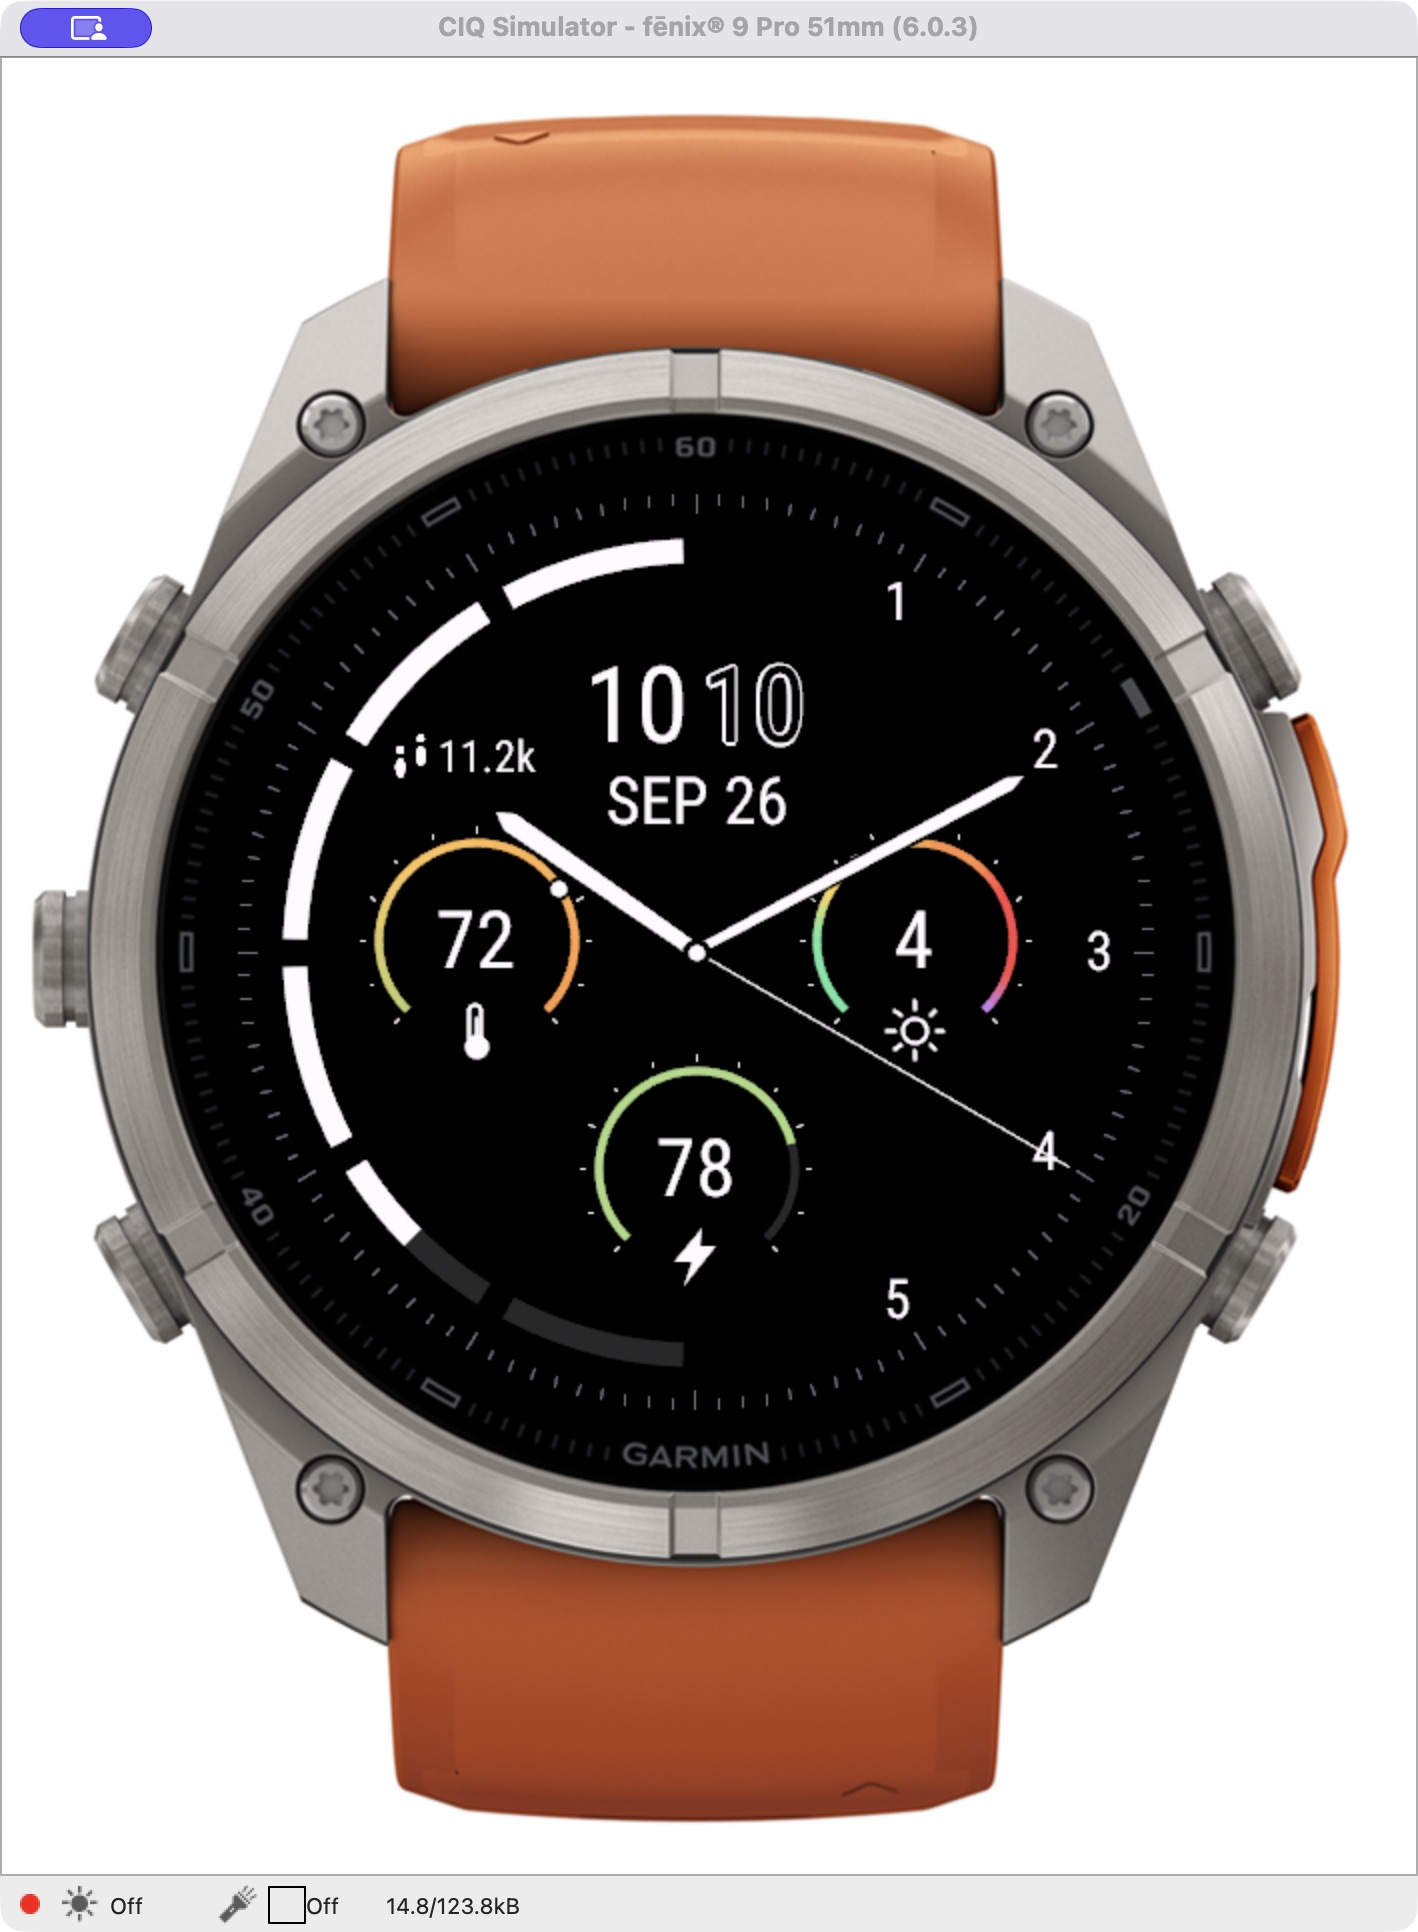
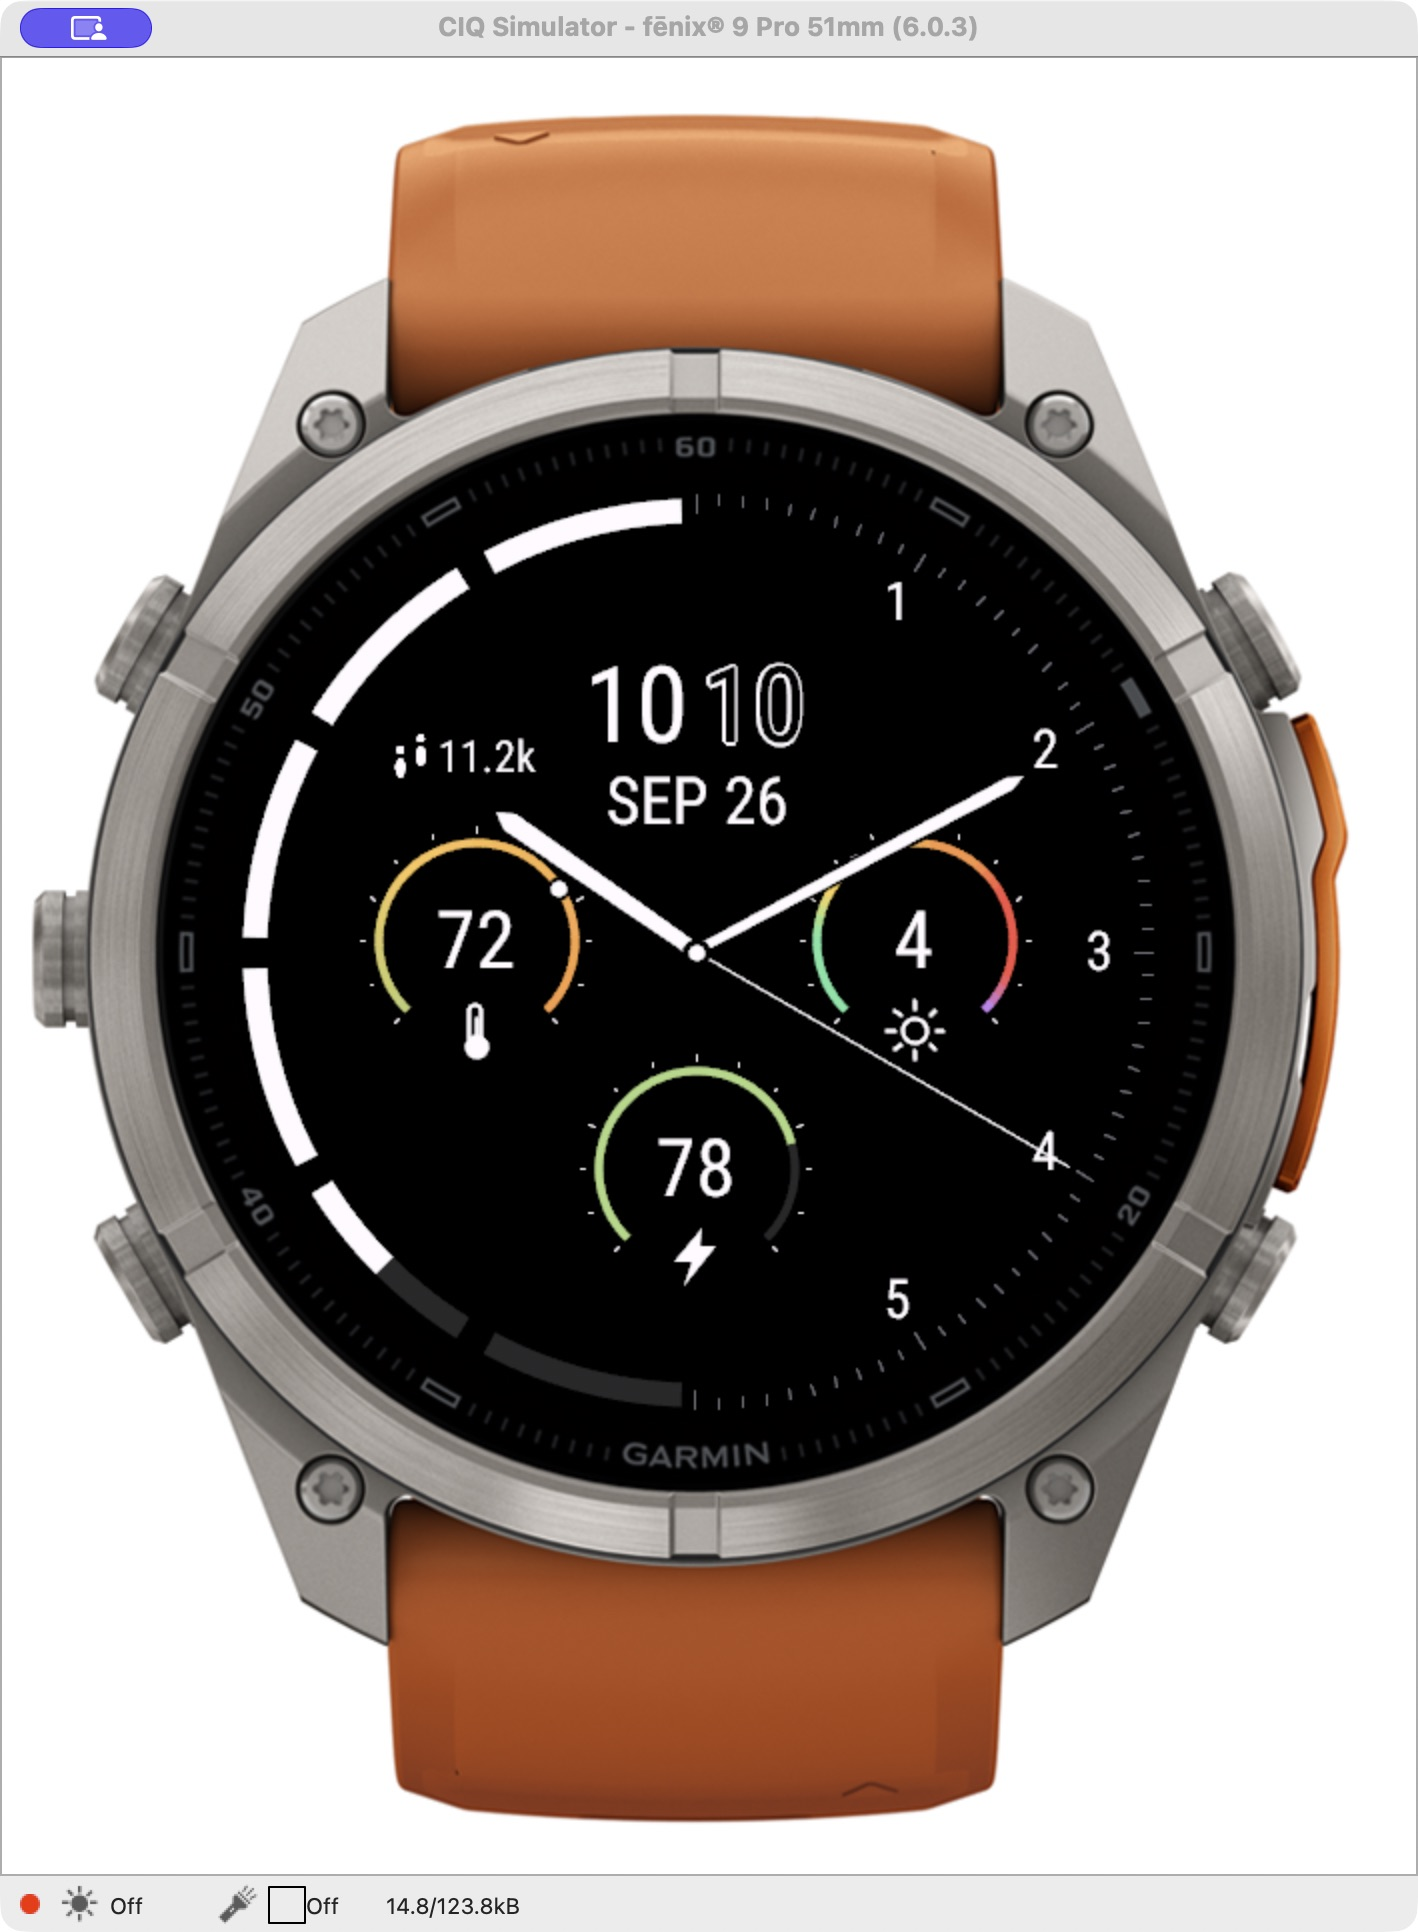
Move Ember step arc to the edge and keep ticks on the right

Changed region(s): [[0.1551, 0.2484, 0.4965, 0.7453]]

diff --git a/faces/ember/README.md b/faces/ember/README.md
@@ -2,7 +2,7 @@
 
 A white-on-black Garmin analog/digital watch face recreated from [this reference](https://www.reddit.com/r/GarminWatchFaces/comments/1x64vvl/need_help_identifying_watch_face/), with weather on the left, UV on the right, and Body Battery below the hands.
 
-![Ember v1.1.6 in the Garmin simulator](docs/preview.png)
+![Ember v1.1.7 in the Garmin simulator](docs/preview.png)
 
 This is an actual simulator screenshot with synthetic preview readings. The installable release always reads Garmin data.
 
@@ -14,24 +14,24 @@ The included **install/Ember.prg** is for **fēnix 9 Pro 51 mm AMOLED (`fenix9pr
 2. Copy `install/Ember.prg` into the watch's existing `GARMIN/APPS` folder. macOS requires an MTP client; Finder does not expose MTP storage.
 3. Disconnect after transfer completes, then select **Ember** in the watch-face picker.
 
-The v1.1.6 release was transferred to the target watch over USB and verified by reading it back byte for byte. Select Ember in the watch-face picker after disconnecting.
+The v1.1.7 release was transferred to the target watch over USB and verified by reading it back byte for byte. Select Ember in the watch-face picker after disconnecting.
 
 ## Display
 
 - Upper time: large solid white hours and outlined white minutes (61-unit font); follows the watch's 12/24-hour preference.
 - Date below the time.
-- Outer ticks run around the full dial without gaps, including at 0, 20, and 40 seconds.
+- Outer ticks appear only on the right, from twelve through six, beside the hour numerals. The left step arc sits just inside the bezel, aligned with the outer edge of the right-side tick marks.
 - Left dial: current temperature, default Fahrenheit; only the numeric value is shown, with a thermometer centered in the bottom gap. The gradient uses Sector’s temperature colors across today’s low-to-high range, with a sliding white marker for the current reading.
 - Right dial: numeric UV index with a sun centered in the bottom gap, and Sector’s green/yellow/orange/red/purple gradient on a 0–11 scale and a sliding white marker.
 - Bottom dial: Body Battery, 0–100, with a lightning icon centered in the bottom gap. Its fill color interpolates from red at 0, through amber at 50, to green at 100.
-- Segmented steps arc on the left, split at the hour markers and filling downward from twelve toward six against a gray track using Garmin's daily step goal. Partial segments show proportional progress; reaching or exceeding the goal fills the arc.
+- Segmented steps arc on the left at radius 216 (12 units wide), split at the hour markers and filling downward from twelve toward six against a gray track using Garmin's daily step goal. Partial segments show proportional progress; reaching or exceeding the goal fills the arc.
 - White hour numerals 1–5 occupy standard clock positions along the right edge, replacing the floors arc and staircase readout.
 - The horizontal step count and footprint icon sit at the upper left without unit labels. Missing readings show `--`, and unavailable/zero goals produce a neutral track.
 - Simple slim solid hour/minute hands with short tapered tips, a compact center hub, and a white seconds needle.
 - Circle numbers use a 46-unit font, the step readout uses 26, hour numerals use 32, and the date uses 38. Complication icons are centered in the bottom gaps without unit labels or UV lettering. The step readout uses an upright footprint motif, vertically centered beside the number with a tight five-unit gap based on the icon’s visible bounds.
 - Screen goes completely black in low-power/off mode, matching Sector's AMOLED behavior. No always-on dial.
 
-Version 1.1.6 uses a white theme and Sector’s progress geometry across all three dials: a 270° arc from lower left to lower right, with white scale ticks. Body Battery fills 0–100% of this arc against a gray track (50 = half the arc, 100 = the full arc). Weather and UV retain Sector’s color gradients and sliding white markers. Missing readings show `--` with a neutral track. Garmin controls weather synchronization; the face uses its latest supplied conditions without an extra age cutoff. Body Battery uses the native complication, falling back to valid samples from the last two hours. Values refresh every 30 seconds while awake, and immediately after waking or changing settings.
+Version 1.1.7 uses a white theme and Sector’s progress geometry across all three dials: a 270° arc from lower left to lower right, with white scale ticks. Body Battery fills 0–100% of this arc against a gray track (50 = half the arc, 100 = the full arc). Weather and UV retain Sector’s color gradients and sliding white markers. Missing readings show `--` with a neutral track. Garmin controls weather synchronization; the face uses its latest supplied conditions without an extra age cutoff. Body Battery uses the native complication, falling back to valid samples from the last two hours. Values refresh every 30 seconds while awake, and immediately after waking or changing settings.
 
 The design recreates the watch-face graphics, not the reference photograph's glass reflections or physical bezel.
 
@@ -68,8 +68,8 @@ The preview is a separate build with fixed sample values and a 10:10 clock. Prev
 
 - Release compiles for the exact target using Connect IQ SDK 9.2.0.
 - All 13 simulator tests passed for v1.1.4 in the combined repository. Coverage includes floors goals, over-goal values, midnight resets, missing/invalid floor data, step arc starting position and partial fills, Body Battery geometry/colors, steps formatting, weather availability, and Body Battery fallback validity.
-- Version 1.1.6 was visually checked in the target simulator with 11,200/15,000 steps. The fresh screenshot confirms the segmented left step arc and white hour numerals 1–5 on the right, with no floors display, and continuous ticks around the entire dial, including the 20- and 40-second positions. Earlier versions also verified live simulator readings and display-off behavior.
-- The v1.1.6 USB installation was verified byte for byte. On-wrist appearance and long-term battery usage remain untested.
+- Version 1.1.7 was visually checked in the target simulator with 11,200/15,000 steps. The fresh screenshot confirms the segmented left step arc and white hour numerals 1–5 on the right, with no floors display, and continuous right-side ticks from twelve through six, no outer ticks on the left, and the step arc moved outward to use the cleared space. Earlier versions also verified live simulator readings and display-off behavior.
+- The v1.1.7 USB installation was verified byte for byte. On-wrist appearance and long-term battery usage remain untested.
 
 ## Source and privacy
 

diff --git a/README.md b/README.md
@@ -7,7 +7,7 @@ Two open-source Garmin watch faces: **Sector** and **Ember**. Each has its own s
 | <img src="faces/sector/docs/preview.png" alt="Sector analog watch face" width="320"> | <img src="faces/ember/docs/preview.png" alt="Ember analog and digital watch face" width="320"> |
 | Analog dial with steps, Sleep Score, Body Battery, UV, date, and temperature. | Analog/digital dial with weather, UV, Body Battery, steps, and right-side hour numerals. |
 | [About Sector](faces/sector/) · **[Download Sector.prg](https://github.com/loganthorneloe/garmin-watch/raw/refs/heads/main/faces/sector/install/Sector.prg)** | [About Ember](faces/ember/) · **[Download Ember.prg](https://github.com/loganthorneloe/garmin-watch/raw/refs/heads/main/faces/ember/install/Ember.prg)** |
-| Version 1.1.8 | Version 1.1.6 |
+| Version 1.1.8 | Version 1.1.7 |
 
 Previews use synthetic simulator readings, not personal health data.
 
